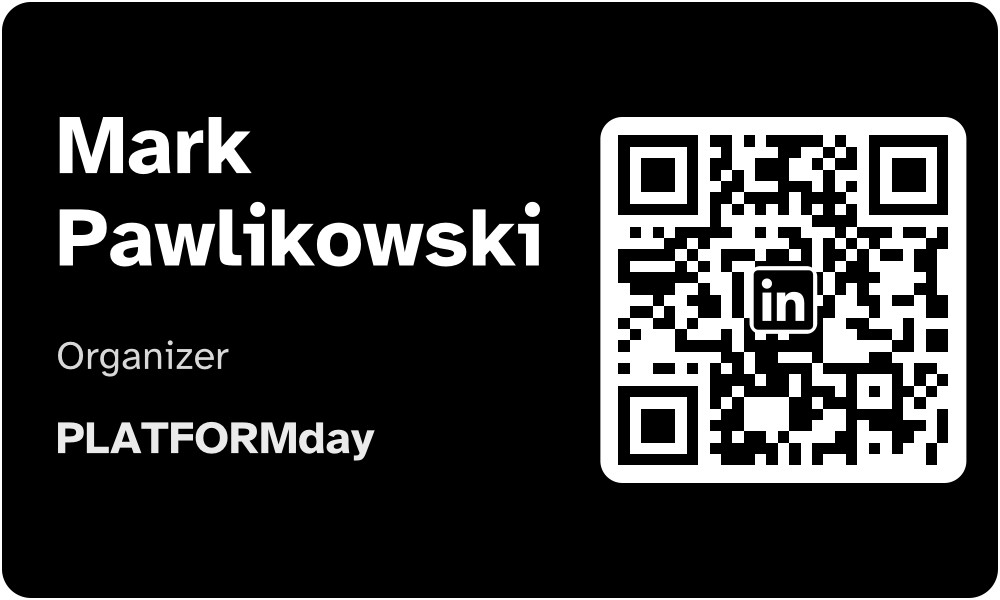
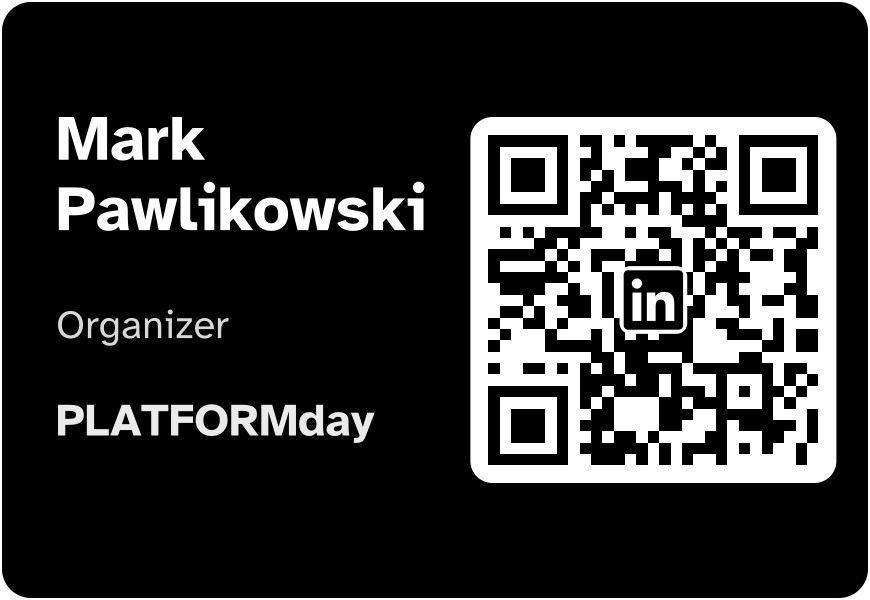
Badge 2.0 is 90 x 62 mm (870x600; 10% less tape): Badger 2.0 prints Custom.62x90mm (an old 62x100mm print command is switched), the browser prints 90 x 62 mm; Snout test badges re-rendered. UI: WiFi preview image hidden until there is one, form messages on their own line, password-manager ignore hin

diff --git a/badger2/app/templates/layout.html b/badger2/app/templates/layout.html
@@ -7,7 +7,7 @@
     </div>
     <div class="pbody" id="pBody">
         <div class="pinner">
-            <p class="detail" style="margin-top:12px">Badges print on the printer plugged into this computer, through the browser's print window. The first time, pick the label printer, paper 62 x 100 mm, margins none: the browser remembers.</p>
+            <p class="detail" style="margin-top:12px">Badges print on the printer plugged into this computer, through the browser's print window. The first time, pick the label printer, paper 62 x 90 mm, margins none: the browser remembers.</p>
             <details class="detail silent">
                 <summary>No print window at all (for badges scanned by the USB scanner device)</summary>
                 <p>Make the label printer this computer's default printer (System Settings, Printers &amp; Scanners). Quit Chrome, then paste this into Terminal:</p>
@@ -97,13 +97,13 @@
         .cols .walkcard { grid-column: 2; grid-row: 2; }
         /* Show all: the list grows down on its own; the printer card keeps
            its ten-row height and the People/WiFi card stays under it. */
-        .cols.long { grid-template-rows: auto 1fr; }
-        .cols.long .guestcard { grid-row: 1 / span 2; }
+        .cols.long, .cols.pclosed { grid-template-rows: auto 1fr; }
+        .cols.long .guestcard, .cols.pclosed .guestcard { grid-row: 1 / span 2; }
         .cols.long .printer:not(.closed) { height: var(--ph, auto); }
         #guests { min-height: 505px; } /* ten rows, even when fewer match */
         @media (max-width: 960px) {
             .cols { grid-template-columns: minmax(0, 1fr); }
-            .cols .guestcard, .cols .printer, .cols .walkcard, .cols.long .guestcard { grid-column: 1; grid-row: auto; }
+            .cols .guestcard, .cols .printer, .cols .walkcard, .cols.long .guestcard, .cols.pclosed .guestcard { grid-column: 1; grid-row: auto; }
             .cols.long .printer:not(.closed) { height: auto; }
             #guests { min-height: 0; }
         }
@@ -211,7 +211,9 @@
             border: 1px solid rgba(20,28,37,.12); background: rgba(255,255,255,.9); outline: none; margin-bottom: 14px; }
         input:focus { border-color: rgba(var(--accent-rgb), .6); box-shadow: 0 0 0 3px rgba(var(--accent-rgb), .12); }
         input.copies { width: 110px; }
-        .walkmsg { margin-left: 12px; color: var(--muted); font-weight: 600; }
+        .walkmsg { display: block; margin-top: 10px; color: var(--muted); font-weight: 600; }
+        .walkmsg:empty { display: none; }
+        .wifiimg[hidden] { display: none; }
 
         /* Guest search */
         .search { display: flex; align-items: center; gap: 12px; margin-bottom: 8px; }
@@ -283,8 +285,8 @@
         .pvwrap { filter: drop-shadow(0 24px 40px rgba(0,0,0,.35)); }
         .preview img { display: block; max-width: min(860px, 90vw); max-height: 80vh; }
         /* Badge images without their thin white print margin: clipped to the
-           badge's own rounded edge (2 px of 1000 x 600, corner radius 29). */
-        img.bare { clip-path: inset(0.5% 0.3% round 3% / 5%); background: none; border-radius: 0; box-shadow: none; }
+           badge's own rounded edge (2 px of 870 x 600, corner radius 29). */
+        img.bare { clip-path: inset(0.5% 0.35% round 3.4% / 5%); background: none; border-radius: 0; box-shadow: none; }
         .preview span { color: #fff; font-weight: 600; font-size: .9rem; }
         /* Print: the row flies into the print queue. */
         .flying { list-style: none; display: flex; align-items: center; gap: 10px; padding: 9px 14px; border-radius: 14px; font-weight: 600;
@@ -332,8 +334,8 @@
             document.body.appendChild(f);
             const d = f.contentDocument;
             d.open();
-            d.write('<!DOCTYPE html><html><head><style>@page { size: 100mm 62mm; margin: 0; } html, body { margin: 0; }'
-                + ' img { display: block; width: 100mm; height: 62mm; object-fit: contain; page-break-after: always; }'
+            d.write('<!DOCTYPE html><html><head><style>@page { size: 90mm 62mm; margin: 0; } html, body { margin: 0; }'
+                + ' img { display: block; width: 90mm; height: 62mm; object-fit: contain; page-break-after: always; }'
                 + ' img:last-child { page-break-after: auto; }</style></head><body>'
                 + todo.map((j) => '<img src="' + location.origin + j.url + '">').join('') + '</body></html>');
             d.close();
@@ -386,6 +388,9 @@
     function fold(closed, still) {
         if (still) card.classList.add('still');
         card.classList.toggle('closed', closed);
+        // Folded, it gives its column back: the People/WiFi card moves up.
+        const cols = card.parentNode;
+        if (cols && cols.classList.contains('cols')) cols.classList.toggle('pclosed', closed);
         tog.textContent = closed ? 'Show Printers' : 'Hide Printers';
         tog.setAttribute('aria-expanded', !closed);
         if (still) requestAnimationFrame(() => requestAnimationFrame(() => card.classList.remove('still')));

diff --git a/badger2/app/templates/guests.html b/badger2/app/templates/guests.html
@@ -15,7 +15,7 @@
 <div class="cols">
 <div class="card glass guestcard">
     <div class="search">
-        <input type="search" id="q" placeholder="Search by name" autocomplete="off" spellcheck="false" autofocus aria-label="Search by name">
+        <input type="search" id="q" placeholder="Search by name" autocomplete="off" data-lpignore="true" data-1p-ignore="true" data-bwignore="true" data-form-type="other" spellcheck="false" autofocus aria-label="Search by name">
         <span class="count" id="qCount"></span>
         <button type="button" class="clear" id="clearTicks" hidden>Clear ✓</button>
     </div>
@@ -47,23 +47,23 @@
         <button type="button" role="tab" class="tab on" data-tab="people" aria-selected="true">People</button>
         <button type="button" role="tab" class="tab" data-tab="wifi" aria-selected="false">WiFi</button>
     </div>
-    <form action="{{base}}/submit" method="POST" id="walkin" data-panel="people" style="margin-top:16px">
+    <form action="{{base}}/submit" method="POST" id="walkin" autocomplete="off" data-lpignore="true" data-panel="people" style="margin-top:16px">
         <label for="name">Name</label>
-        <input type="text" id="name" name="name" autocomplete="off">
+        <input type="text" id="name" name="name" autocomplete="off" data-lpignore="true" data-1p-ignore="true" data-bwignore="true" data-form-type="other">
 
         <label for="title">Job title</label>
-        <input type="text" id="title" name="title" autocomplete="off">
+        <input type="text" id="title" name="title" autocomplete="off" data-lpignore="true" data-1p-ignore="true" data-bwignore="true" data-form-type="other">
 
         <label for="company">Company</label>
-        <input type="text" id="company" name="company" autocomplete="off">
+        <input type="text" id="company" name="company" autocomplete="off" data-lpignore="true" data-1p-ignore="true" data-bwignore="true" data-form-type="other">
 
         <label for="linkedin">LinkedIn</label>
-        <input type="text" id="linkedin" name="linkedin" autocomplete="off" placeholder="linkedin.com/in/... (no LinkedIn, no QR code)">
+        <input type="text" id="linkedin" name="linkedin" autocomplete="off" data-lpignore="true" data-1p-ignore="true" data-bwignore="true" data-form-type="other" placeholder="linkedin.com/in/... (no LinkedIn, no QR code)">
 
         <button type="submit">Print</button>
         <span class="walkmsg" id="walkMsg"></span>
     </form>
-    <form id="wifi" data-panel="wifi" hidden style="margin-top:16px">
+    <form id="wifi" data-panel="wifi" autocomplete="off" data-lpignore="true" hidden style="margin-top:16px">
         <label>Network type</label>
         <div class="kinds" role="radiogroup" aria-label="Network type">
             <label><input type="radio" name="kind" value="password" checked><span>Password</span></label>
@@ -74,25 +74,25 @@
         <p class="kindnote" id="kindNote"></p>
 
         <label for="ssid">Network name</label>
-        <input type="text" id="ssid" name="ssid" autocomplete="off" spellcheck="false" required>
+        <input type="text" id="ssid" name="ssid" autocomplete="off" data-lpignore="true" data-1p-ignore="true" data-bwignore="true" data-form-type="other" spellcheck="false" required>
 
         <div data-for="enterprise">
             <label for="wuser">Username</label>
-            <input type="text" id="wuser" name="username" autocomplete="off" spellcheck="false">
+            <input type="text" id="wuser" name="username" autocomplete="off" data-lpignore="true" data-1p-ignore="true" data-bwignore="true" data-form-type="other" spellcheck="false">
         </div>
 
         <div data-for="password signin enterprise">
             <label for="wpass" id="wpassLabel">Password</label>
-            <input type="text" id="wpass" name="password" autocomplete="off" spellcheck="false">
+            <input type="text" id="wpass" name="password" autocomplete="off" data-lpignore="true" data-1p-ignore="true" data-bwignore="true" data-form-type="other" spellcheck="false">
         </div>
 
         <div data-for="signin">
             <label for="wsign">What the sign-in page asks for</label>
-            <input type="text" id="wsign" name="signin" autocomplete="off" placeholder="e.g. Access code SREDAY26, or: Accept the terms">
+            <input type="text" id="wsign" name="signin" autocomplete="off" data-lpignore="true" data-1p-ignore="true" data-bwignore="true" data-form-type="other" placeholder="e.g. Access code SREDAY26, or: Accept the terms">
         </div>
 
         <label for="copies">Copies</label>
-        <input type="number" id="copies" name="copies" min="1" max="50" value="1" class="copies">
+        <input type="number" id="copies" autocomplete="off" data-lpignore="true" data-1p-ignore="true" data-bwignore="true" data-form-type="other" name="copies" min="1" max="50" value="1" class="copies">
 
         <button type="button" class="ghostbtn" id="wifiPreview">Preview</button>
         <button type="submit">Print</button>

diff --git a/pkg/badge2_test.go b/pkg/badge2_test.go
@@ -38,12 +38,12 @@ func TestGenerateBadgeV2(t *testing.T) {
 		if err != nil {
 			t.Fatalf("%s: %v", name, err)
 		}
-		if b := img.Bounds(); b.Dx() != 1000 || b.Dy() != 600 {
+		if b := img.Bounds(); b.Dx() != badgeWidth || b.Dy() != badgeHeight {
 			t.Errorf("%s: size %v", name, b)
 		}
 		// Rounded corners: the very corner is blank paper, the edge
 		// midpoints are the background.
-		for _, p := range []image.Point{{0, 0}, {999, 0}, {0, 599}, {999, 599}, {3, 3}} {
+		for _, p := range []image.Point{{0, 0}, {badgeWidth - 1, 0}, {0, badgeHeight - 1}, {badgeWidth - 1, badgeHeight - 1}, {3, 3}} {
 			if !isWhite(img.At(p.X, p.Y)) {
 				t.Errorf("%s: corner %v not white", name, p)
 			}
@@ -59,7 +59,7 @@ func TestGenerateBadgeV2(t *testing.T) {
 		if d.LinkedIn != "" {
 			black := 0
 			for y := 140; y < 460; y += 4 {
-				for x := 620; x < 940; x += 4 {
+				for x := badgeWidth - 380; x < badgeWidth - 60; x += 4 {
 					if r, _, _, _ := img.At(x, y).RGBA(); r < 0x2000 {
 						black++
 					}
@@ -88,7 +88,7 @@ func TestBadgeV2TextStaysLeftOfQR(t *testing.T) {
 	// Between the text column and the QR tile the background shows through:
 	// no white text pixels in the gutter.
 	for y := 20; y < 580; y++ {
-		for x := 566; x < 590; x++ {
+		for x := badgeWidth - 434; x < badgeWidth - 410; x++ { // the 40 px before the tile
 			if isWhite(img.At(x, y)) {
 				t.Fatalf("text runs into the QR gutter at %d,%d", x, y)
 			}
@@ -104,7 +104,7 @@ func TestBadgeV2WithoutLinkedInHasNoQR(t *testing.T) {
 	}
 	// Where the QR would be: only the black background.
 	for y := 140; y < 460; y += 6 {
-		for x := 620; x < 940; x += 6 {
+		for x := badgeWidth - 300; x < badgeWidth - 60; x += 6 {
 			r, g, b, _ := img.At(x, y).RGBA()
 			if r>>8 != 0 || g>>8 != 0 || b>>8 != 0 {
 				t.Fatalf("something at %d,%d: %v", x, y, img.At(x, y))
@@ -163,12 +163,13 @@ func TestWifiBadge(t *testing.T) {
 		if err != nil {
 			t.Fatalf("%s: %v", name, err)
 		}
-		if b := img.Bounds(); b.Dx() != 1000 || b.Dy() != 600 || !isWhite(img.At(0, 0)) {
+		if b := img.Bounds(); b.Dx() != badgeWidth || b.Dy() != badgeHeight || !isWhite(img.At(0, 0)) {
 			t.Errorf("%s: bad card", name)
 		}
 		// A QR tile in the middle right, except for username & password.
 		hasQR := c.Kind != WifiEnterprise
-		tileThere := isWhite(img.At(610, 127)) && isWhite(img.At(956, 127)) && isWhite(img.At(610, 473)) && isWhite(img.At(956, 473))
+		l, r := badgeWidth-390, badgeWidth-44 // inside the tile, by its corners
+		tileThere := isWhite(img.At(l, 127)) && isWhite(img.At(r, 127)) && isWhite(img.At(l, 473)) && isWhite(img.At(r, 473))
 		if tileThere != hasQR {
 			t.Errorf("%s: QR tile there = %v, want %v", name, tileThere, hasQR)
 		}

diff --git a/pkg/badge2.go b/pkg/badge2.go
@@ -43,7 +43,7 @@ var (
 	badgeLogoShare  = 0.18
 	badgeEdge       = 2.0  // a hairline of white all around the badge
 	badgeLogoPad    = 0.07 // white ring around the logo, share of its width
-	badgeWidth      = 1000 // the classic badge's size: same label, same print command
+	badgeWidth      = 870 // 90 x 62 mm at the label's 600 px height (10% less tape than 100 mm)
 	badgeHeight     = 600
 	badgeBackground = color.RGBA{0x00, 0x00, 0x00, 0xff} // the whole background: pure black
 	// Quartile (25%) rather than highest (30%) correction: fewer, bigger
@@ -95,8 +95,7 @@ func v2Face(bold bool, size int) font.Face {
 	return f
 }
 
-// GenerateBadgeV2 draws the 2.0 badge (1000x600, the same label as the
-// classic one).
+// GenerateBadgeV2 draws the 2.0 badge: 870x600, a 90 x 62 mm label.
 func GenerateBadgeV2(data BadgeData) (image.Image, error) {
 	if err := loadV2Fonts(); err != nil {
 		return nil, err

diff --git a/badger2/app/app.go b/badger2/app/app.go
@@ -84,7 +84,9 @@ func LoadConfig() Config {
 		if err := json.Unmarshal(data, &fc); err != nil {
 			log.Printf("Warning: could not parse config.json: %v", err)
 		} else {
-			cfg.PrintCmd = fc.PrintCmd
+			// The 2.0 badge is 90 mm long (the original Badger's
+			// config.json, copied by the installer, says 100 mm).
+			cfg.PrintCmd = strings.Replace(fc.PrintCmd, "PageSize=62x100mm", "PageSize=Custom.62x90mm", 1)
 			cfg.Printers = fc.Printers
 			if len(cfg.Printers) == 0 && fc.Printer != "" {
 				cfg.Printers = []string{fc.Printer}

diff --git a/README.md b/README.md
@@ -6,7 +6,7 @@ Single static binary — no runtime dependencies.
 
 ## Badger 2.0, no install: scan.sreday.com/badger
 
-Plug the label printer (and the ticket scanner) into any laptop, open **https://scan.sreday.com/badger/**, sign in with the Snout admin password, pick the event: done. The events and guest lists come from Snout's Luma key, so there is no Luma login. The browser prints each badge on the laptop's printer through its print window. The first time, pick the label printer, paper 62 x 100 mm and no margins; the browser remembers. For a self-service scanner stand, skip the print window: make the label printer the laptop's default printer, quit Chrome, and start it with `--kiosk-printing` (the exact Terminal line is on the page, under the printer card). The jobs list shows this page's prints. The printer's own state (on, off, queue) needs the installed version below, which reads it from CUPS. The hosted version has no CSV import.
+Plug the label printer (and the ticket scanner) into any laptop, open **https://scan.sreday.com/badger/**, sign in with the Snout admin password, pick the event: done. The events and guest lists come from Snout's Luma key, so there is no Luma login. The browser prints each badge on the laptop's printer through its print window. The first time, pick the label printer, paper 62 x 90 mm and no margins (on a Mac: Paper Size, Manage Custom Sizes, 62 x 90 mm, no margins, once); the browser remembers. For a self-service scanner stand, skip the print window: make the label printer the laptop's default printer, quit Chrome, and start it with `--kiosk-printing` (the exact Terminal line is on the page, under the printer card). The jobs list shows this page's prints. The printer's own state (on, off, queue) needs the installed version below, which reads it from CUPS. The hosted version has no CSV import.
 
 The same app is in `badger2/app`. `badger2` runs it on the laptop, and Snout serves it at `/badger` behind its admin password.
 
